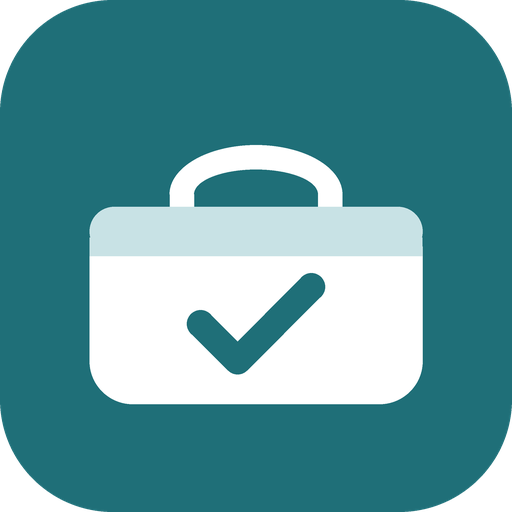
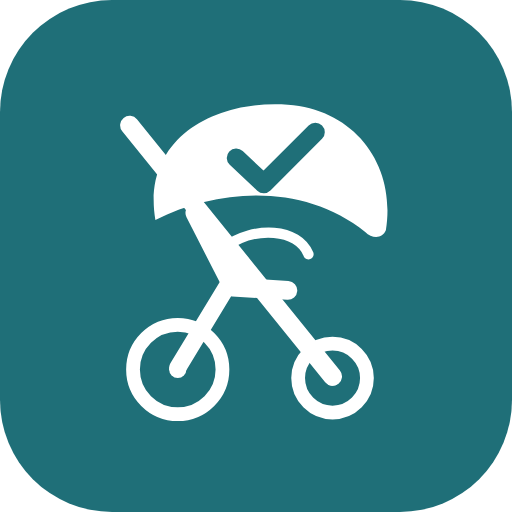
Nouvelle icône : poussette (silhouette City Mini GT2) avec un check
icon.svg est la source ; les PNG en sont générés.

Claude-Session: https://claude.ai/code/session_01NnHgL6QFgoYbQVTE9XRNJG

Changed region(s): [[0.1562, 0.1875, 0.8438, 0.8438]]

diff --git a/sw.js b/sw.js
@@ -1,6 +1,6 @@
 // Keeps a copy of the app on the phone so it opens without network.
 // Change VERSION whenever a file changes, so phones pick up the new copy.
-const VERSION = "sortie-bebe-v14";
+const VERSION = "sortie-bebe-v15";
 const FILES = [
   "./",
   "./index.html",
